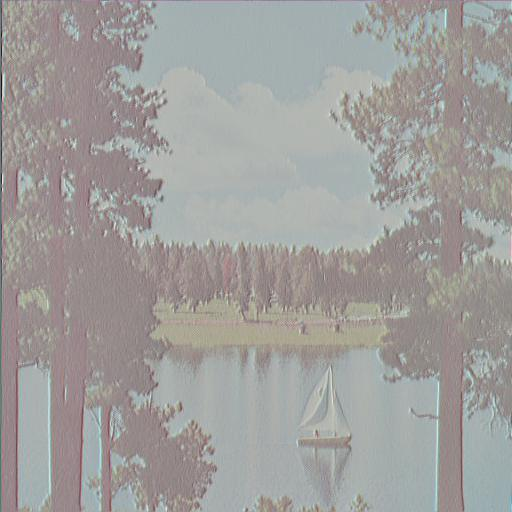
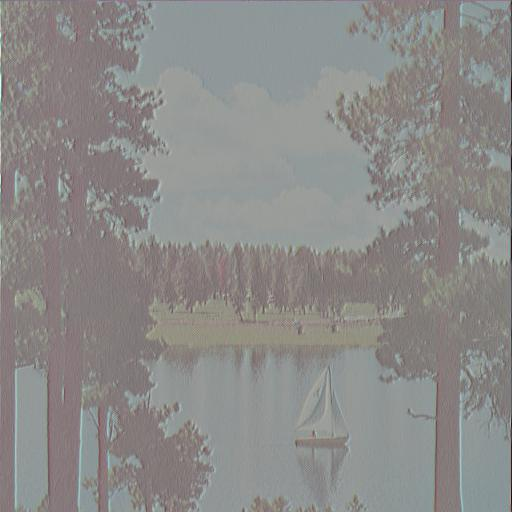
Small typos

diff --git a/image_processing/assignment_1/task2c.py b/image_processing/assignment_1/task2c.py
@@ -23,11 +23,12 @@ def convolve_im(im, kernel,
         [type]: [np.array of shape [H, W, 3]. should be same as im]
     """
     assert len(im.shape) == 3
+
     image_height = im.shape[0]
     image_width = im.shape[1]
     kernel_dim_divided = kernel.shape[0] // 2
 
-    computed = np.zeros(shape=(image_height, image_width, 3))
+    computed = np.zeros(shape=(image_height, image_width, im.shape[2]))
 
     # Different loop-orders were tried out, but this one seemed
     # to yield the lowest running time
@@ -37,11 +38,12 @@ def convolve_im(im, kernel,
                 pixel_value = 0.0
                 for ki in range(-kernel_dim_divided, kernel_dim_divided + 1):
                     for kj in range(-kernel_dim_divided, kernel_dim_divided + 1):
-                        h_coor = h_index + ki
-                        if h_coor == -1 or h_coor >= image_height:
+                        # Minus since we are using applying convolution
+                        h_coor = h_index - ki
+                        if h_coor < 0 or h_coor >= image_height:
                             continue
-                        w_coor = w_index + kj
-                        if w_coor == -1 or w_coor >= image_width:
+                        w_coor = w_index - kj
+                        if w_coor < 0 or w_coor >= image_width:
                             continue
                         if kj == 0 and ki == 0:
                             continue
